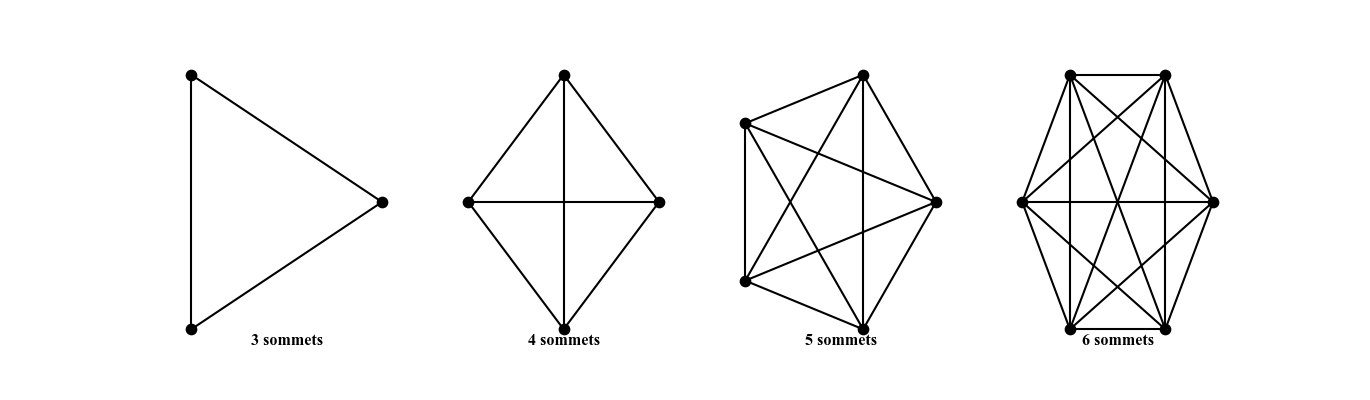
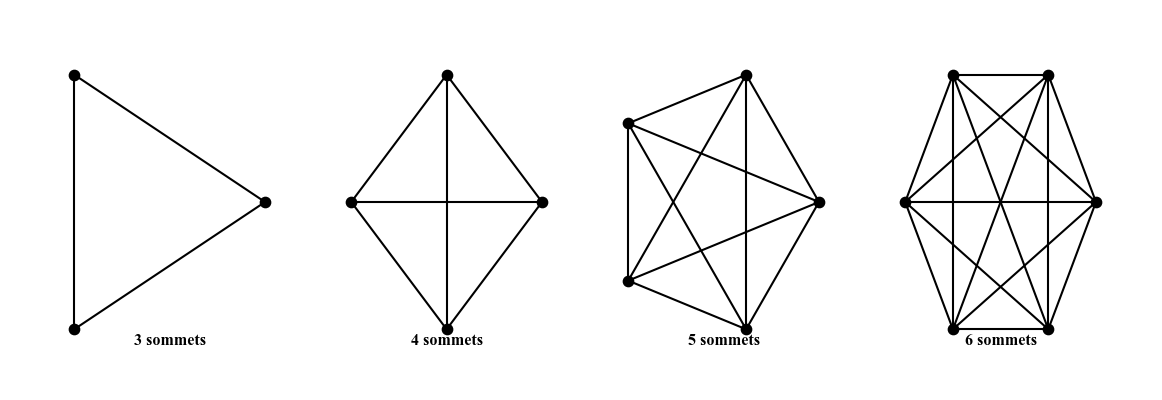
Generating a complete graph

diff --git a/Pythonfig/graphe_complet.py b/Pythonfig/graphe_complet.py
@@ -1,0 +1,47 @@
+import matplotlib.pyplot as plt
+import networkx as nx                  
+
+# Graphe 1 
+G_1 = nx.Graph()                #pour générer un graphe G_1 vide à l'aide de la bibliothèque networkx
+A1 = [(1,2),(1,3),(2,3)]        #ensemble des aretes entre les neouds
+G_1.add_edges_from(A1)          #ajouter les aretes au graphe G_1
+
+# Graphe 2
+G_2= nx.Graph()                 #générer un graphe vide G_2
+A2= A1+[(1,4),(2,4),(3,4)]      #on a ajouté le noeud 4, donc il faut ajouter just tous ses aretes avec les autres noeuds 
+G_2.add_edges_from(A2)
+
+# Graphe 3
+G_3 = nx.Graph()               #initialiser par un graphe G_3 vide          
+A3=A2+[(1,5),(2,5),(3,5),(4,5)]
+G_3.add_edges_from(A3)         #ajouter les aretes au graphe à l'aide de la fonction add_edges de networkx
+
+#Graphe 4
+G_4 = nx.Graph()
+A4= A3+[(1,6),(2,6),(3,6),(4,6),(5,6)]
+G_4.add_edges_from(A4)                  #ajouter les aretes à partir de la liste A4
+
+
+# Create the figure 
+
+f, nb_col = plt.subplots(figsize=(15,4), ncols=4,)   #créer une figure f de taille (15x4) divisée en 4 colonnes pour les 4 sous-figures.
+
+
+position1 =nx.circular_layout(G_1)                   #cette fonction nous aide à positionner les neouds d'une manière circulaire pour ordonner la sous figure résultante. 
+nx.draw(G_1,position1, with_labels=False,ax=nb_col[0],node_size=55, node_color='black',width=1.5)  #dessiner G_1 dans la première colonne en utilisant la position 1,sans affichier les numéros des noeuds, avec des aretes d'épaisseur 1.5
+nb_col[0].set_title("3 sommets", fontsize=11.5, fontfamily="Times New Roman",fontweight="bold",y=0.009)   #titre de sous-figure, placé en bas
+
+position2=nx.circular_layout(G_2)
+nx.draw(G_2, position2,with_labels=False, ax=nb_col[1],node_size=55,node_color='black',width=1.5)
+nb_col[1].set_title("4 sommets", fontsize=11.5, fontfamily="Times New Roman",fontweight="bold",y=0.009)   
+
+position3=nx.circular_layout(G_3)
+nx.draw(G_3, position3,with_labels=False,ax=nb_col[2],node_size=55,node_color='black',width=1.5)
+nb_col[2].set_title("5 sommets", fontsize=11.5, fontfamily="Times New Roman",fontweight="bold",y=0.009)   
+
+position4=nx.circular_layout(G_4)
+nx.draw(G_4, position4, with_labels= False,ax=nb_col[3],node_size=55, node_color='black',width=1.5)
+nb_col[3].set_title("6 sommets", fontsize=11.5, fontfamily="Times New Roman",fontweight="bold",y=0.009)   
+
+
+plt.show()      #fonction d'affichage de la figure f
